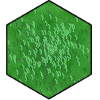
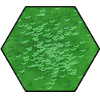
Rotated Hex and Changed Controls as Per Iteration 2 Requiremenets

diff --git a/src/main/view/game/GamePanel.java b/src/main/view/game/GamePanel.java
@@ -81,33 +81,33 @@ public class GamePanel extends Panel {
 	
 	protected void drawStaticTileElement(int x, int y, String image) {
 		g2d.drawImage(Assets.getInstance().getImage(image), camera.offsetX(x, y), 
-				camera.offsetY(y), null); 
+				camera.offsetY(x, y), null); 
 	}
 	
 	protected void drawStaticTileElement(int x, int y, int rotation, String image) {
 		AffineTransform currentRotation = g2d.getTransform();
 		rotateOnTile(x, y, rotation);
-		g2d.drawImage(Assets.getInstance().getImage(image), camera.offsetX(x, y), camera.offsetY(y), null); 
+		g2d.drawImage(Assets.getInstance().getImage(image), camera.offsetX(x, y), camera.offsetY(x, y), null); 
 		g2d.setTransform(currentRotation);
 	}
 	
 	private void rotateOnTile(int x, int y, int degrees) {
 		g2d.rotate(Math.toRadians(degrees), 
 				camera.getTileLocationX(x, y) + TILE_PIXEL_SIZE/2, 
-				camera.getTileLocationY(y) + TILE_PIXEL_SIZE/2);
+				camera.getTileLocationY(x, y) + TILE_PIXEL_SIZE/2);
 	}
 	
 	protected void drawAnimatedTileElement(int x, int y, 
 			String image1, String image2, String image3) {
 		switch (getAnimationImage()) {
 		case 0:
-			g2d.drawImage(Assets.getInstance().getImage(image1), camera.offsetX(x, y), camera.offsetY(y), null);
+			g2d.drawImage(Assets.getInstance().getImage(image1), camera.offsetX(x, y), camera.offsetY(x, y), null);
 			break;
 		case 2:
-			g2d.drawImage(Assets.getInstance().getImage(image2), camera.offsetX(x, y), camera.offsetY(y), null);
+			g2d.drawImage(Assets.getInstance().getImage(image2), camera.offsetX(x, y), camera.offsetY(x, y), null);
 			break;
 		default:
-			g2d.drawImage(Assets.getInstance().getImage(image3), camera.offsetX(x, y), camera.offsetY(y), null);
+			g2d.drawImage(Assets.getInstance().getImage(image3), camera.offsetX(x, y), camera.offsetY(x, y), null);
 		}
 	}
 	

diff --git a/src/main/game/gameboard/GameBoard.java b/src/main/game/gameboard/GameBoard.java
@@ -113,18 +113,18 @@ public class GameBoard {
     //Get the adjecent tile
     private Tile getAdjacentTile(Tile actorTile,int direction) {
         switch(direction) {
-            case 45: //Move north-east
+            case 0: //Move north
+                return gameMap[actorTile.getLocation().getX()][actorTile.getLocation().getY() - 1];
+            case 45: //move north east
                 return gameMap[actorTile.getLocation().getX() + 1][actorTile.getLocation().getY() - 1];
-            case 90: //move east
-                return gameMap[actorTile.getLocation().getX() + 1][actorTile.getLocation().getY()];
             case 135: //move south east
+                return gameMap[actorTile.getLocation().getX() + 1][actorTile.getLocation().getY()];
+            case 180: //move south
                 return gameMap[actorTile.getLocation().getX()][actorTile.getLocation().getY() + 1];
             case 225: //move south west
                 return gameMap[actorTile.getLocation().getX() - 1][actorTile.getLocation().getY() + 1];
-            case 270: //move west
-                return gameMap[actorTile.getLocation().getX() - 1][actorTile.getLocation().getY()];
             case 315: //move north west
-                return gameMap[actorTile.getLocation().getX()][actorTile.getLocation().getY() - 1];
+                return gameMap[actorTile.getLocation().getX() - 1][actorTile.getLocation().getY()];
             default:
                 return null;
         }

diff --git a/src/main/view/game/ArmyDrawer.java b/src/main/view/game/ArmyDrawer.java
@@ -67,20 +67,20 @@ public class ArmyDrawer {
 		if (numOfUnits < 10) {
 			gamePanel.getG2D().setColor(Color.BLACK);
 			gamePanel.getG2D().drawString("" + numOfUnits, gamePanel.getCamera().offsetX(x , y) + 
-					gamePanel.getTileSize()/2 - 15, gamePanel.getCamera().offsetY(y) + 
+					gamePanel.getTileSize()/2 - 15, gamePanel.getCamera().offsetY(x, y) + 
 					gamePanel.getTileSize()/2 + 18);
 			gamePanel.getG2D().setColor(Color.WHITE);
 			gamePanel.getG2D().drawString("" + numOfUnits, gamePanel.getCamera().offsetX(x, y) + 
-					gamePanel.getTileSize()/2 - 17, gamePanel.getCamera().offsetY(y) + 
+					gamePanel.getTileSize()/2 - 17, gamePanel.getCamera().offsetY(x, y) + 
 					gamePanel.getTileSize()/2 + 17);
 		} else {
 			gamePanel.getG2D().setColor(Color.BLACK);
 			gamePanel.getG2D().drawString("" + numOfUnits, gamePanel.getCamera().offsetX(x, y) + 
-					gamePanel.getTileSize()/2 - 23, gamePanel.getCamera().offsetY(y) + 
+					gamePanel.getTileSize()/2 - 23, gamePanel.getCamera().offsetY(x, y) + 
 					gamePanel.getTileSize()/2 + 18);
 			gamePanel.getG2D().setColor(Color.WHITE);
 			gamePanel.getG2D().drawString("" + numOfUnits, gamePanel.getCamera().offsetX(x, y) + 
-					gamePanel.getTileSize()/2 - 25, gamePanel.getCamera().offsetY(y) + 
+					gamePanel.getTileSize()/2 - 25, gamePanel.getCamera().offsetY(x, y) + 
 					gamePanel.getTileSize()/2 + 17);
 		}
 		gamePanel.getG2D().setColor(original);

diff --git a/src/main/game/EventController.java b/src/main/game/EventController.java
@@ -111,25 +111,25 @@ public class EventController implements KeyListener{
 				log.debug("Numpad 1 pressed");
 				this.game.addMoveToList(225);
 				break;
+			case KeyEvent.VK_NUMPAD2:
+				log.debug("Numpad 2 pressed");
+				this.game.addMoveToList(180);
+				break;
 			case KeyEvent.VK_NUMPAD3:
 				log.debug("Numpad 3 pressed");
 				this.game.addMoveToList(135);
-				break;
-			case KeyEvent.VK_NUMPAD4:
-				log.debug("Numpad 4 pressed");
-				this.game.addMoveToList(270);
 				break;
 			case KeyEvent.VK_NUMPAD5:
 				log.debug("Numpad 5 pressed");
 				this.game.centerOnLastMoveLocation();
 				break;
-			case KeyEvent.VK_NUMPAD6:
-				log.debug("Numpad 6 pressed");
-				this.game.addMoveToList(90);
-				break;
 			case KeyEvent.VK_NUMPAD7:
 				log.debug("Numpad 7 pressed");
 				this.game.addMoveToList(315);
+				break;
+			case KeyEvent.VK_NUMPAD8:
+				log.debug("Numpad 8 pressed");
+				this.game.addMoveToList(0);
 				break;
 			case KeyEvent.VK_NUMPAD9:
 				log.debug("Numpad 9 pressed");

diff --git a/src/main/game/gameboard/Location.java b/src/main/game/gameboard/Location.java
@@ -32,23 +32,23 @@ public class Location {
 
     public Location directionLocation(int direction){
         switch (direction){
+            case 0:
+                return new Location(xIndex, yIndex - 1);
+
             case 45:
                 return new Location(xIndex + 1, yIndex - 1);
 
-            case 90:
+            case 135:
                 return new Location(xIndex + 1, yIndex);
 
-            case 135:
+            case 180:
                 return new Location(xIndex, yIndex + 1);
 
             case 225:
                 return new Location(xIndex - 1, yIndex + 1);
 
-            case 270:
-                return new Location(xIndex - 1, yIndex);
-
             case 315:
-                return new Location(xIndex, yIndex - 1);
+                return new Location(xIndex - 1, yIndex);
         }
         return this;
     }

diff --git a/src/main/view/game/TileDrawer.java b/src/main/view/game/TileDrawer.java
@@ -47,12 +47,12 @@ public class TileDrawer {
 			for (int j = 0; j < game.getGameBoard().gameMap[i].length; j++) {
 				if (DEBUG) {
 					gamePanel.getG2D().drawString("(" + i + " ," + j + ")", gamePanel.getCamera().offsetX(i, j) - 13,
-							gamePanel.getCamera().offsetY(j) - 13);
+							gamePanel.getCamera().offsetY(i, j) - 13);
 				}
 				drawTile(i, j, game.getGameBoard().gameMap[i][j].getTileType());
 				if (game.getGameBoard().gameMap[i][j].getUnits().size() > 1 && !game.getGameBoard().gameMap[i][i].containsArmy) {
 					gamePanel.getG2D().drawString("" + game.getGameBoard().gameMap[i][j].getUnits().size()
-							, gamePanel.getCamera().offsetX(i, j) + 5, gamePanel.getCamera().offsetY(j) + 22);
+							, gamePanel.getCamera().offsetX(i, j) + 5, gamePanel.getCamera().offsetY(i, j) + 22);
 				}
 					
 			}

diff --git a/src/main/view/game/Camera.java b/src/main/view/game/Camera.java
@@ -35,16 +35,16 @@ public class Camera {
 		return getTileLocationX(x, y) + offsetX;
 	}
 	
-	protected int offsetY(int y) {
-		return getTileLocationY(y) + offsetY;
+	protected int offsetY(int x, int y) {
+		return getTileLocationY(x, y) + offsetY;
 	}
 	
 	protected int getTileLocationX(int x, int y) {
-		return (int)((x * HEX_W) + ((y * 0.5f) * HEX_W));
+		return (int)(((x * 0.5f) * HEX_H/2) + (x * 0.5f) * HEX_H);
 	}
 	
-	protected int getTileLocationY(int y) {
-		return (int)(((y * 0.5f) * HEX_H/2) + (y * 0.5f) * HEX_H);
+	protected int getTileLocationY(int x, int y) {
+		return (int)((y * HEX_W) + ((x * 0.5f) * HEX_W));
 	}
 	
 	protected PanelCenterer getPanelCenterer() {

diff --git a/src/main/view/game/PanelCenterer.java b/src/main/view/game/PanelCenterer.java
@@ -44,7 +44,7 @@ public class PanelCenterer {
 	
 	//Returns Y Offset Based on the Y Location of a Tile for centering
 	private int centeringOffsetY(int x, int y) {
-		return (height/2) - gamePanel.getCamera().getTileLocationY(y) - gamePanel.getTileSize()/2;
+		return (height/2) - gamePanel.getCamera().getTileLocationY(x, y) - gamePanel.getTileSize()/2;
 	}
 	
 	private void continueCentering() {
